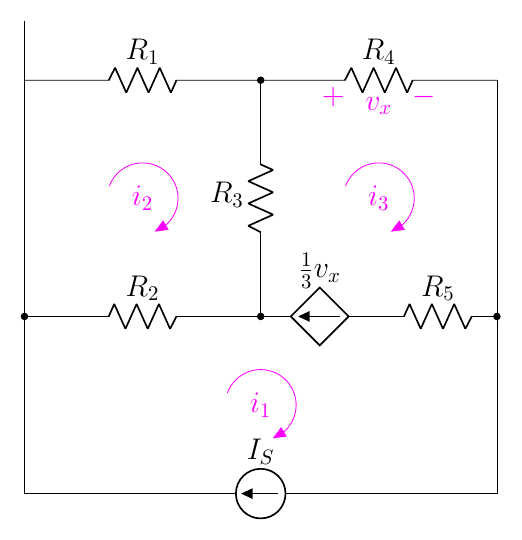
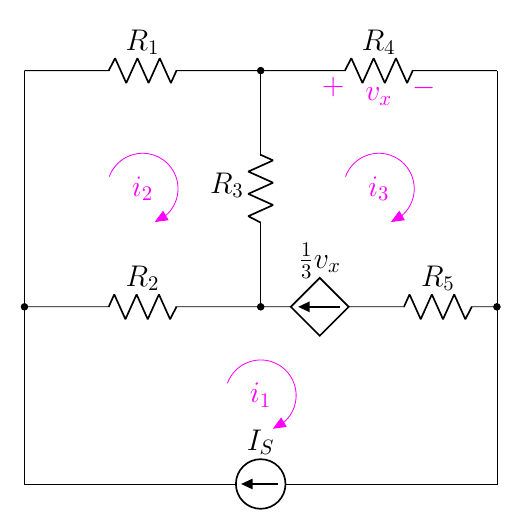
edit 4.47

diff --git a/1.6 Supermesh/4.4 The supermesh/4.47(new).tex b/1.6 Supermesh/4.4 The supermesh/4.47(new).tex
@@ -2,7 +2,7 @@
 \begin{document}
 \begin{circuitikz}[american]
     %%% vertical %%%
-    \draw(0,0) to[short] ++(0,8);
+    \draw(0,0) to[short] ++(0,7);
 
     \draw(4,3) to[R,l=\rname{3}] ++(0,4);
 
